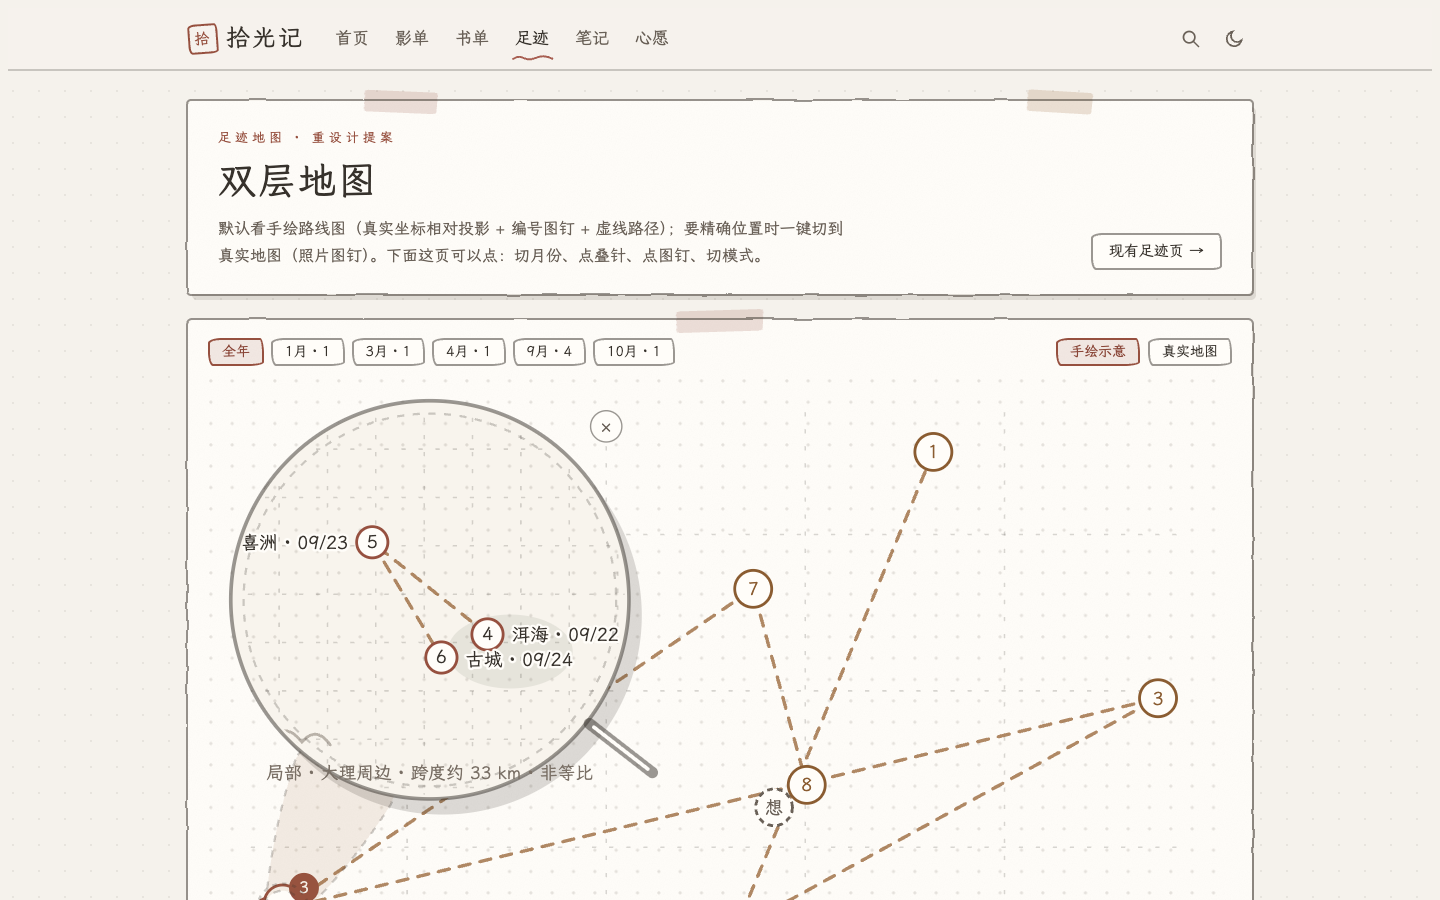
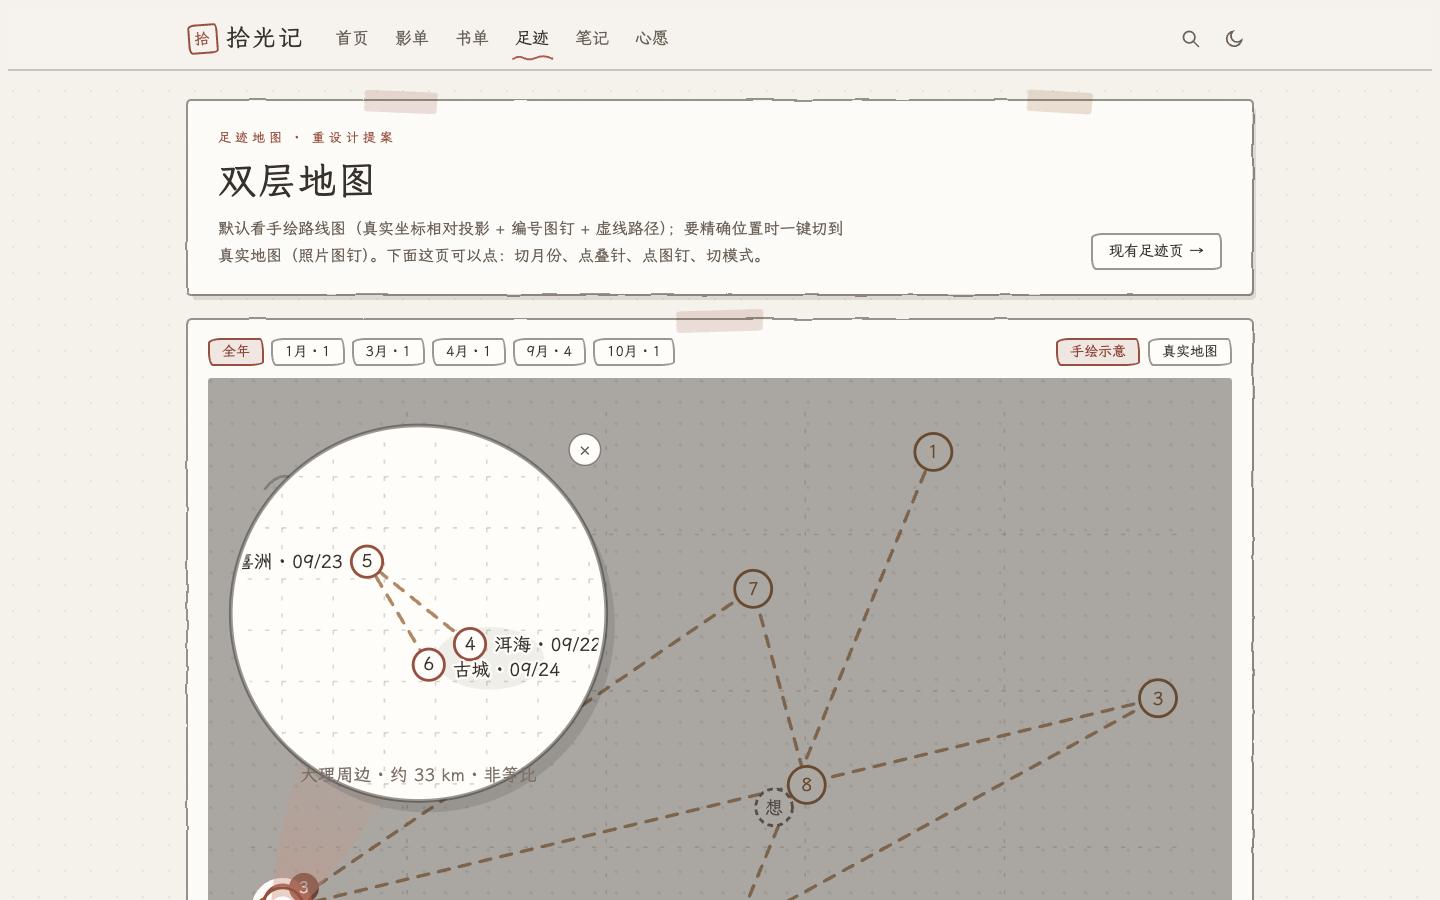
docs(handdrawn): 放大镜聚焦版——压暗底图 + 渐变光束 + 干净纸镜
- 全国图压暗 42%，叠针处留聚光孔 + 细聚焦环：视野只剩镜与那一坨
- 光束锥去描边去虚线，改暖色渐变（宽头 16% → 窄头 46%，聚焦在叠针）
- 镜片删掉内虚线环、手柄与镜内点阵：纸底 + 单圈墨环 + 柔影，元素减半

diff --git a/docs/design/mockups/handdrawn-0.0.6/travel-map.html b/docs/design/mockups/handdrawn-0.0.6/travel-map.html
@@ -70,11 +70,8 @@
 .page-mapdoc .lens-handle { stroke: var(--hd-line); stroke-width: 8; stroke-linecap: round }
 .page-mapdoc .lens-handle-in { stroke: var(--hd-paper); stroke-width: 2.6; stroke-linecap: round }
 .page-mapdoc .lens-leader { stroke: var(--hd-line-soft); stroke-width: 1.8; stroke-dasharray: 4 5; fill: none }
-.page-mapdoc .lens-cone {
-  fill: rgba(156, 107, 63, .12);
-  stroke: var(--hd-line-soft); stroke-width: 1.6; stroke-dasharray: 5 6;
-}
-.page-mapdoc .lens-anchor { fill: none; stroke: var(--hd-line-soft); stroke-width: 1.8; stroke-dasharray: 3 4 }
+.page-mapdoc .lens-cone { stroke: none }
+.page-mapdoc .lens-anchor { fill: none; stroke: var(--hd-red); stroke-width: 2 }
 
 /* 真实地图模式（伪高德：浅灰路网 + 照片图钉） */
 .page-mapdoc .real-map {
@@ -257,7 +254,7 @@
         <tr><td class="k">投影</td><td>等距圆柱<b>相对投影</b>：把全部足迹的经纬度包围盒映射到纸面（国内外地点通吃），保持方位关系；页角常驻「示意位置 · 非比例」。投影框按<b>全部足迹</b>计算，月份筛选不改变它。</td></tr>
         <tr><td class="k">防重叠 · 位移</td><td>图钉最小间距 52px；力导向互斥微位移，单针位移上限 26px——只「挪半步」，方位感不破坏。</td></tr>
         <tr><td class="k">防重叠 · 聚合</td><td>位移后仍 &lt;30px（同城多点）→ 合成<b>叠针</b>（三针叠放 + 数量角标），停在真实位置；不去伪造间隔。</td></tr>
-        <tr><td class="k">放大镜</td><td>点叠针 → 一枚更大的玻璃镜片<b>压在那一坨上</b>：原图一切不动，镜片不透明底盖住叠针，镜内是一张<b>新的局部手绘小地图</b>（视口 = 簇内点经纬度包围盒，留 32% 余量，窄轴拉伸撑满内接方形的范围视图），三点自然展开，标注实际跨度 km 与「非等比」；镜片悬浮在簇的斜上方（方向自适应、不出画布），镜沿到叠针之间画一条<b>圆锥光路</b>（宽头贴镜、窄头箍住叠针）标明展示对象；同坐标 → 纸片列表兜底；点镜外或 × 复原。</td></tr>
+        <tr><td class="k">放大镜</td><td>点叠针 → 一枚更大的玻璃镜片<b>压在那一坨上</b>：原图一切不动，镜片不透明底盖住叠针，镜内是一张<b>新的局部手绘小地图</b>（视口 = 簇内点经纬度包围盒，留 32% 余量，窄轴拉伸撑满内接方形的范围视图），三点自然展开，标注实际跨度 km 与「非等比」；全国图压暗、叠针处留聚光孔与细聚焦环；镜片悬浮在簇的斜上方（方向自适应、不出画布），镜沿到叠针是一条<b>无描边的渐变光束锥</b>（宽头贴镜淡、窄头聚焦亮）标明展示对象；同坐标 → 纸片列表兜底；点镜外或 × 复原。</td></tr>
         <tr><td class="k">月份口径</td><td>按 finishDate 归月；胶囊只列<b>有足迹的月份</b>并带数量（空月不出现）；默认「全年」；切换只重画路径与图钉。</td></tr>
         <tr><td class="k">路径</td><td>选中范围内按日期升序串联成虚线路径；仅 1 个点不画线；<b>想去不进路径</b>。</td></tr>
         <tr><td class="k">想去</td><td>虚线图钉常显，不受月份筛选影响；点开是想去态详情（可定日子）。</td></tr>
@@ -445,90 +442,88 @@ function drawHand() {
   });
 }
 
-/* 放大镜：一枚大玻璃镜片压在叠针上——原图一切不动；镜片不透明底盖住那一坨，
-   里面是一张新的局部手绘小地图（视口 = 簇内点的经纬度包围盒），三点自然展开 */
+/* 放大镜（聚焦版）：压暗全国图，只在叠针处留一圈聚光；镜沿到叠针是一条
+   无描边的渐变光束（宽头贴镜、窄头聚焦在叠针上）；镜片是一张干净的纸 */
 function openLens(G, cx, cy) {
-  var R = 140;
+  var R = 132;
   var members = G.items.slice().sort(function (a, b) { return (a.d || '').localeCompare(b.d || ''); });
 
-  /* 玻璃悬浮在簇的斜上方：按候选方向找一处「锥长 ≥70 且镜片不出画布」的位置 */
+  /* 玻璃悬浮在簇的斜上方：锥长 ≥64 且镜片不出画布 */
   var gx = cx, gy = cy;
   var cands = [-1.15, -0.55, -1.8, -2.5, 0.55, 1.05, 2.6, 3.5];
   for (var ci = 0; ci < cands.length; ci++) {
     var ux = Math.cos(cands[ci]), uy = Math.sin(cands[ci]);
-    var wx = Math.min(Math.max(cx + ux * (R + 105), R + 16), VB.w - R - 16);
-    var wy = Math.min(Math.max(cy + uy * (R + 105), R + 16), VB.h - R - 16);
-    gx = wx; gy = wy;
-    if (Math.hypot(gx - cx, gy - cy) >= R + 70) break;
+    gx = Math.min(Math.max(cx + ux * (R + 96), R + 16), VB.w - R - 16);
+    gy = Math.min(Math.max(cy + uy * (R + 96), R + 16), VB.h - R - 16);
+    if (Math.hypot(gx - cx, gy - cy) >= R + 64) break;
   }
 
-  /* 局部地图视口 = 簇内经纬度包围盒（留 32% 余量），两轴各自撑满圆的内接方形
-     （范围视图：窄轴会拉伸，标注「非等比」与实际范围公里数） */
+  /* 局部小地图视口 = 簇内经纬度包围盒（32% 余量，范围视图） */
   var lngs = members.map(function (p) { return p.lng; }), lats = members.map(function (p) { return p.lat; });
   var bx0 = Math.min.apply(null, lngs), bx1 = Math.max.apply(null, lngs);
   var by0 = Math.min.apply(null, lats), by1 = Math.max.apply(null, lats);
   var bcx = (bx0 + bx1) / 2, bcy = (by0 + by1) / 2;
   var bw = Math.max(bx1 - bx0, 0.008) * 1.64, bh = Math.max(by1 - by0, 0.008) * 1.64;
-  var HALF = (R - 46) * 0.707; /* 内接方形半边 */
+  var HALF = (R - 48) * 0.707;
   function localXY(p) {
     return { x: gx + (p.lng - bcx) / (bw / 2) * HALF, y: gy - (p.lat - bcy) / (bh / 2) * HALF };
   }
-
-  /* 实际范围（km）：纬度 1°≈111km，经度 1°≈111×cos(纬度) */
   var kmW = (bx1 - bx0) * 111 * Math.cos(bcy * Math.PI / 180);
   var kmH = (by1 - by0) * 111;
   var km = Math.round(Math.max(kmW, kmH, 0.5));
 
   var lens = el('g', {}, handMap);
 
-  /* 圆锥光路：宽头贴镜沿、窄头箍住叠针——放大镜看的就是这一坨 */
+  /* 1) 压暗全国图，叠针处留聚光孔 */
+  var spot = 22;
+  var hole = 'M0 0 H' + VB.w + ' V' + VB.h + ' H0 Z M' + cx + ' ' + cy + ' m-' + spot + ' 0 a' + spot + ' ' + spot + ' 0 1 0 ' + spot * 2 + ' 0 a' + spot + ' ' + spot + ' 0 1 0 -' + spot * 2 + ' 0 Z';
+  el('path', { d: hole, fill: 'rgba(55,50,44,.42)', 'fill-rule': 'evenodd' }, lens);
+
+  /* 2) 光束锥：无描边、暖色渐变（宽头淡、窄头亮——聚焦在叠针上） */
   var a = Math.atan2(cy - gy, cx - gx);
   var perp = a + Math.PI / 2;
-  var W1 = 74, W2 = 26;
+  var W1 = 64, W2 = 18;
   var rx = gx + Math.cos(a) * (R + 2), ry = gy + Math.sin(a) * (R + 2);
-  function pt(px, py, w, k) { return (px + Math.cos(perp) * w / 2 * k) + ' ' + (py + Math.sin(perp) * w / 2 * k); }
   var ax = rx + Math.cos(perp) * W1 / 2, ay = ry + Math.sin(perp) * W1 / 2;
   var bx = rx - Math.cos(perp) * W1 / 2, by = ry - Math.sin(perp) * W1 / 2;
   var ex = cx + Math.cos(perp) * W2 / 2, ey = cy + Math.sin(perp) * W2 / 2;
   var fx = cx - Math.cos(perp) * W2 / 2, fy = cy - Math.sin(perp) * W2 / 2;
-  var m1x = (ax + ex) / 2 + Math.cos(perp) * 6, m1y = (ay + ey) / 2 + Math.sin(perp) * 6;
-  var m2x = (bx + fx) / 2 - Math.cos(perp) * 6, m2y = (by + fy) / 2 - Math.sin(perp) * 6;
+  var m1x = (ax + ex) / 2 + Math.cos(perp) * 5, m1y = (ay + ey) / 2 + Math.sin(perp) * 5;
+  var m2x = (bx + fx) / 2 - Math.cos(perp) * 5, m2y = (by + fy) / 2 - Math.sin(perp) * 5;
+  var grad = el('linearGradient', { id: 'md-beam', gradientUnits: 'userSpaceOnUse', x1: rx, y1: ry, x2: cx, y2: cy }, window._mdDefs);
+  el('stop', { offset: '0%', 'stop-color': '#C99585', 'stop-opacity': .16 }, grad);
+  el('stop', { offset: '100%', 'stop-color': '#C99585', 'stop-opacity': '.46' }, grad);
   el('path', {
-    class: 'lens-cone',
+    class: 'lens-cone', fill: 'url(#md-beam)',
     d: 'M' + ax + ' ' + ay + ' Q' + m1x + ' ' + m1y + ' ' + ex + ' ' + ey +
        ' A' + (W2 / 2) + ' ' + (W2 / 2) + ' 0 0 1 ' + fx + ' ' + fy +
        ' Q' + m2x + ' ' + m2y + ' ' + bx + ' ' + by +
        ' A' + (W1 / 2) + ' ' + (W1 / 2) + ' 0 0 0 ' + ax + ' ' + ay + ' Z'
   }, lens);
-  /* 窄头的箍圈：锚在叠针上 */
-  el('circle', { class: 'lens-anchor', cx: cx, cy: cy, r: W2 / 2 + 5 }, lens);
+  /* 叠针上的聚焦环（唯一强调，实线细环） */
+  el('circle', { class: 'lens-anchor', cx: cx, cy: cy, r: W2 / 2 + 6 }, lens);
 
-  /* 投影 + 影子 + 不透明玻璃底：把那一坨盖住 */
-  el('circle', { cx: gx + 9, cy: gy + 11, r: R, fill: 'rgba(40,34,28,.16)' }, lens);
-  el('circle', { cx: gx, cy: gy, r: R, fill: 'var(--hd-paper-2)' }, lens);
+  /* 3) 镜片：柔和投影 + 纸底 + 单圈墨环（无内环、无手柄） */
+  el('circle', { cx: gx + 6, cy: gy + 8, r: R, fill: 'rgba(40,34,28,.14)' }, lens);
+  el('circle', { cx: gx, cy: gy, r: R, fill: 'var(--hd-paper)' }, lens);
 
-  /* 镜内：新的局部手绘小地图 */
   var clipId = 'md-lens' + Date.now();
   var cp = el('clipPath', { id: clipId }, window._mdDefs);
-  el('circle', { cx: gx, cy: gy, r: R - 3 }, cp);
+  el('circle', { cx: gx, cy: gy, r: R - 4 }, cp);
   var con = el('g', { 'clip-path': 'url(#' + clipId + ')' }, lens);
-  el('rect', { x: gx - R, y: gy - R, width: R * 2, height: R * 2, fill: 'url(#mdots)', 'fill-opacity': .55 }, con);
   var grid = el('g', { class: 'map-grid' }, con);
-  for (var gx2 = gx - R + 34; gx2 < gx + R; gx2 += 34) { el('path', { d: 'M' + gx2 + ' ' + (gy - R) + ' V' + (gy + R) }, grid); }
-  for (var gy2 = gy - R + 34; gy2 < gy + R; gy2 += 34) { el('path', { d: 'M' + (gx - R) + ' ' + gy2 + ' H' + (gx + R) }, grid); }
-  /* 装饰：点名带「海/湖/江/河」的点旁画水，角上画山 */
+  for (var gx2 = gx - R + 36; gx2 < gx + R; gx2 += 36) { el('path', { d: 'M' + gx2 + ' ' + (gy - R) + ' V' + (gy + R) }, grid); }
+  for (var gy2 = gy - R + 36; gy2 < gy + R; gy2 += 36) { el('path', { d: 'M' + (gx - R) + ' ' + gy2 + ' H' + (gx + R) }, grid); }
   members.forEach(function (p) {
     if (!/[海湖江河]/.test(p.t)) return;
     var pos = localXY(p);
-    el('ellipse', { cx: pos.x + 16, cy: pos.y + 12, rx: 44, ry: 26, fill: 'var(--hd-moss-soft)', opacity: .8 }, con);
+    el('ellipse', { cx: pos.x + 14, cy: pos.y + 10, rx: 38, ry: 22, fill: 'var(--hd-moss-soft)', opacity: .7 }, con);
   });
-  el('path', { class: 'deco', d: 'M' + (gx - R + 26) + ' ' + (gy + R - 40) + ' q12 -16 24 0 q10 -12 20 2' }, con);
-  /* 镜内路径：按日期串联 */
   if (members.length > 1) {
     el('path', { class: 'map-route', d: 'M' + members.map(function (p) { var q = localXY(p); return q.x + ',' + q.y; }).join(' L') }, con);
   }
 
-  /* 编号针 + 标签（同侧纵向避让） */
+  /* 4) 编号针 + 标签（同侧纵向避让） */
   var order = {};
   PLACES.filter(function (p) { return !p.wish; }).sort(function (a, b) { return (a.d || '').localeCompare(b.d || ''); })
     .forEach(function (p, i) { order[p.id] = i + 1; });
@@ -553,20 +548,16 @@ function openLens(G, cx, cy) {
     g.addEventListener('click', open); lb.addEventListener('click', open);
   });
 
-  /* 镜环 + 手柄 + 标注 + 关闭 */
+  /* 5) 镜环 + 标注 + 关闭 */
   el('circle', { class: 'lens-frame', cx: gx, cy: gy, r: R }, lens);
-  el('circle', { class: 'lens-frame2', cx: gx, cy: gy, r: R - 9 }, lens);
-  var ha = 0.66;
-  el('path', { class: 'lens-handle', d: 'M' + (gx + Math.cos(ha) * (R + 2)) + ' ' + (gy + Math.sin(ha) * (R + 2)) + ' L' + (gx + Math.cos(ha) * (R + 58)) + ' ' + (gy + Math.sin(ha) * (R + 58)) }, lens);
-  el('path', { class: 'lens-handle-in', d: 'M' + (gx + Math.cos(ha) * (R + 6)) + ' ' + (gy + Math.sin(ha) * (R + 6)) + ' L' + (gx + Math.cos(ha) * (R + 54)) + ' ' + (gy + Math.sin(ha) * (R + 54)) }, lens);
   var sc = el('text', { class: 'lens-scale', x: gx, y: gy + R - 14, 'text-anchor': 'middle' }, lens);
-  sc.textContent = '局部 · ' + (members[0].city || '') + '周边 · 跨度约 ' + km + ' km · 非等比';
-  var close = el('g', { transform: 'translate(' + (gx + R - 16) + ',' + (gy - R + 18) + ')', style: 'cursor:pointer' }, lens);
+  sc.textContent = (members[0].city || '') + '周边 · 约 ' + km + ' km · 非等比';
+  var close = el('g', { transform: 'translate(' + (gx + R - 15) + ',' + (gy - R + 17) + ')', style: 'cursor:pointer' }, lens);
   el('circle', { r: 11, fill: 'var(--hd-paper)', stroke: 'var(--hd-line)' }, close);
   var xt = el('text', { y: 4, 'text-anchor': 'middle', fill: 'var(--hd-ink-soft)', 'font-size': 12 }, close);
   xt.textContent = '×';
 
-  function closeLens() { lens.remove(); cp.remove(); handMap.removeEventListener('click', outside, true); }
+  function closeLens() { lens.remove(); cp.remove(); grad.remove(); handMap.removeEventListener('click', outside, true); }
   function outside(e) { if (!lens.contains(e.target)) closeLens(); }
   close.addEventListener('click', function (e) { e.stopPropagation(); closeLens(); });
   lens.addEventListener('click', function (e) { e.stopPropagation(); });
